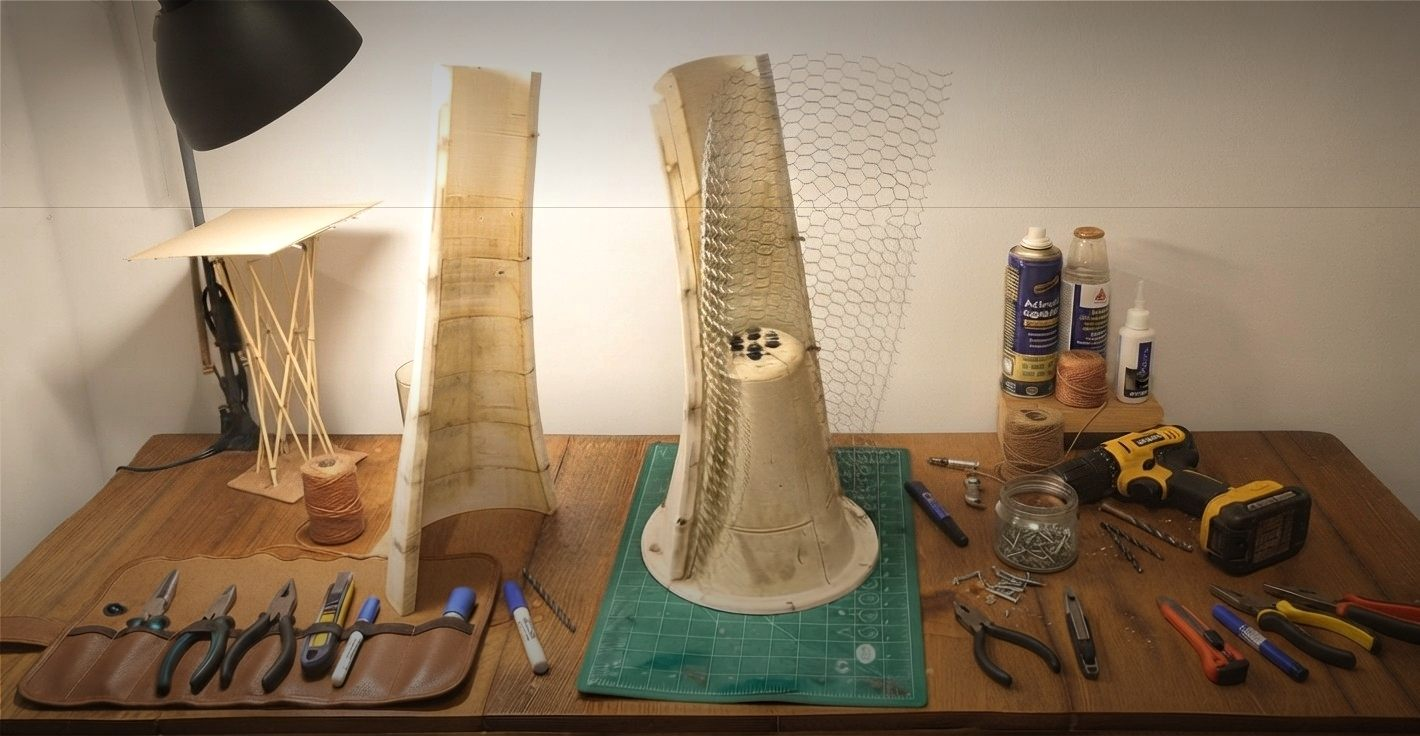
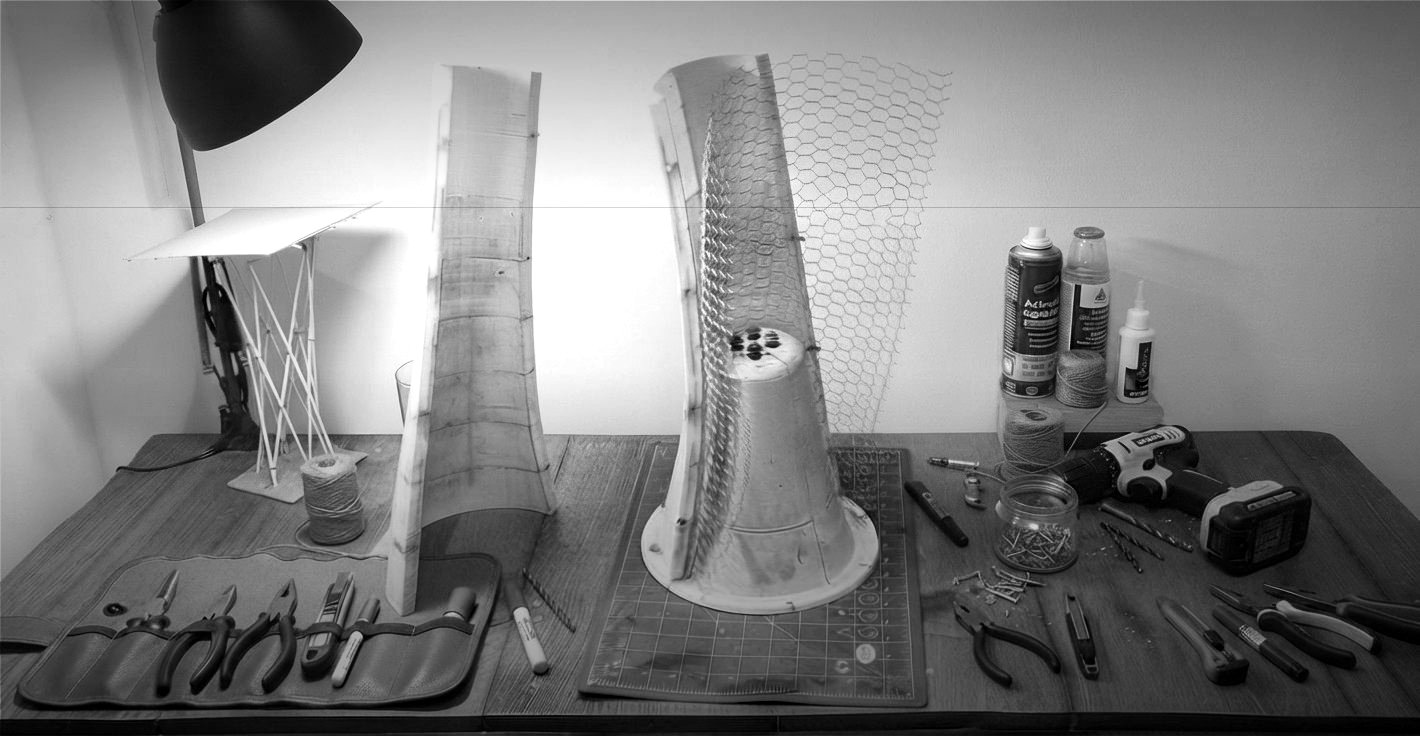
Fotos: al pasar el puntero el fondo se pixela y el objeto queda nitido (sin trama de puntos); imagen principal de Servicios en blanco y negro

diff --git a/dither.js b/dither.js
@@ -1,10 +1,12 @@
-// Dithering "concreto cromado": las fotos se ven como una trama de puntos (Bayer 4x4) con degradado
-// plata -> lila -> cian y pasan a la foto real al pasar el mouse. En pantallas táctiles, que no tienen
-// "hover", la foto se revela cuando queda en la franja central de la pantalla al hacer scroll.
-// Si la imagen no permite leer sus píxeles (sin CORS), se deja la foto tal cual.
+// Fondo en píxeles: las fotos se ven normales y, al pasar el puntero, el FONDO se vuelve un mosaico de
+// píxeles mientras el objeto (lo que hay en el centro, distinto del borde de la foto) queda nítido.
+// En pantallas táctiles, sin "hover", el efecto se activa cuando la foto queda en la franja central
+// de la pantalla al hacer scroll.
+// El objeto se detecta en el navegador comparando cada punto con los colores del borde de la foto
+// (no hay modelo de IA ni servidor). Si la imagen no permite leer sus píxeles (sin CORS), queda la foto.
 (() => {
   const conMouse = matchMedia('(hover: hover) and (pointer: fine)').matches;
-  // Táctil: se revela la tarjeta que cruza la franja central (38 % - 62 % de la altura de la pantalla)
+  // Táctil: se activa la tarjeta que cruza la franja central (38 % - 62 % de la altura de la pantalla)
   const tarjetas = new Set();
   let pendiente = false;
   function revisar() {
@@ -24,44 +26,197 @@
     addEventListener('resize', pedirRevision);
   }
 
-  const BAYER = [0, 8, 2, 10, 12, 4, 14, 6, 3, 11, 1, 9, 15, 7, 13, 5];
-  const ANCHO = 120;
-  const PLATA = [232, 232, 238];
-  const LILA = [185, 167, 255];
-  const CIAN = [126, 232, 255];
+  const ANCHO = 320;      // resolución del lienzo que se superpone a la foto
+  const ANCHO_MASCARA = 96; // resolución con la que se separa objeto y fondo
+  const COLUMNAS = 28;    // cuántos "píxeles" de ancho tiene el mosaico del fondo
   const procesadas = new WeakSet();
+  const chica = url => url.replace(/([?&])w=\d+/, '$1w=320');
 
-  const mezclar = (a, b, t) => [a[0] + (b[0] - a[0]) * t, a[1] + (b[1] - a[1]) * t, a[2] + (b[2] - a[2]) * t];
-  const cromo = t => (t < 0.5 ? mezclar(PLATA, LILA, t * 2) : mezclar(LILA, CIAN, (t - 0.5) * 2));
-  const chica = url => url.replace(/([?&])w=\d+/, '$1w=240');
+  // ---------- Separar objeto y fondo ----------
+  // Devuelve una máscara (1 = objeto, 0 = fondo) de ancho x alto.
+  function mascaraDelObjeto(px, an, al) {
+    const n = an * al;
+    // 1) Colores del borde de la foto = el fondo probable (3 grupos por k-means)
+    const grosor = Math.max(3, Math.round(an * 0.07));
+    const muestras = [];
+    for (let y = 0; y < al; y++) {
+      for (let x = 0; x < an; x++) {
+        if (x < grosor || y < grosor || x >= an - grosor || y >= al - grosor) {
+          const i = (y * an + x) * 4;
+          muestras.push([px[i], px[i + 1], px[i + 2]]);
+        }
+      }
+    }
+    muestras.sort((p, q) => (p[0] + p[1] + p[2]) - (q[0] + q[1] + q[2]));
+    const K = 3;
+    let centros = [0, 1, 2].map(k => muestras[Math.floor((k + 0.5) * muestras.length / K)].slice());
+    let asigna = new Array(muestras.length).fill(0);
+    const d2 = (p, c) => (p[0] - c[0]) ** 2 + (p[1] - c[1]) ** 2 + (p[2] - c[2]) ** 2;
+    for (let it = 0; it < 6; it++) {
+      muestras.forEach((p, j) => {
+        let mejor = 0, md = Infinity;
+        centros.forEach((c, k) => { const d = d2(p, c); if (d < md) { md = d; mejor = k; } });
+        asigna[j] = mejor;
+      });
+      centros = centros.map((c, k) => {
+        const s = [0, 0, 0]; let m = 0;
+        muestras.forEach((p, j) => { if (asigna[j] === k) { s[0] += p[0]; s[1] += p[1]; s[2] += p[2]; m++; } });
+        return m ? [s[0] / m, s[1] / m, s[2] / m] : c;
+      });
+    }
+    const sigma = centros.map((c, k) => {
+      let s = 0, m = 0;
+      muestras.forEach((p, j) => { if (asigna[j] === k) { s += Math.sqrt(d2(p, c)); m++; } });
+      return (m ? s / m : 10) + 14;
+    });
 
+    // 2) Qué tan distinto del fondo es cada punto, con preferencia por el centro
+    const puntaje = new Float32Array(n);
+    let maximo = 0;
+    for (let y = 0; y < al; y++) {
+      for (let x = 0; x < an; x++) {
+        const i = (y * an + x) * 4;
+        const p = [px[i], px[i + 1], px[i + 2]];
+        let d = Infinity;
+        centros.forEach((c, k) => { d = Math.min(d, Math.sqrt(d2(p, c)) / sigma[k]); });
+        const dx = (x / an - 0.5) * 2, dy = (y / al - 0.5) * 2;
+        const centro = 0.55 + 0.45 * Math.exp(-((dx / 0.7) ** 2 + (dy / 0.7) ** 2));
+        const v = d * centro;
+        puntaje[y * an + x] = v;
+        if (v > maximo) maximo = v;
+      }
+    }
+
+    // 3) Umbral de Otsu
+    const BINS = 64;
+    const hist = new Array(BINS).fill(0);
+    for (let i = 0; i < n; i++) hist[Math.min(BINS - 1, Math.floor(puntaje[i] / (maximo || 1) * BINS))]++;
+    let sumaTotal = 0;
+    hist.forEach((h, b) => { sumaTotal += b * h; });
+    let wB = 0, sB = 0, mejorVar = -1, umbral = 0;
+    for (let b = 0; b < BINS; b++) {
+      wB += hist[b];
+      if (!wB) continue;
+      const wF = n - wB;
+      if (!wF) break;
+      sB += b * hist[b];
+      const mB = sB / wB, mF = (sumaTotal - sB) / wF;
+      const v = wB * wF * (mB - mF) ** 2;
+      if (v > mejorVar) { mejorVar = v; umbral = b; }
+    }
+    const corte = (umbral + 1) / BINS * maximo;
+    let obj = new Uint8Array(n);
+    for (let i = 0; i < n; i++) obj[i] = puntaje[i] > corte ? 1 : 0;
+
+    // 4) Quedarse con las manchas grandes (y la que está en el centro), descartar motas
+    const etiqueta = new Int32Array(n).fill(-1);
+    const areas = [];
+    const toca = [];
+    for (let s = 0; s < n; s++) {
+      if (!obj[s] || etiqueta[s] >= 0) continue;
+      const id = areas.length;
+      let area = 0, centrada = false;
+      const pila = [s];
+      etiqueta[s] = id;
+      while (pila.length) {
+        const q = pila.pop();
+        area++;
+        const x = q % an, y = (q / an) | 0;
+        if (Math.abs(x / an - 0.5) < 0.18 && Math.abs(y / al - 0.5) < 0.18) centrada = true;
+        if (x > 0 && obj[q - 1] && etiqueta[q - 1] < 0) { etiqueta[q - 1] = id; pila.push(q - 1); }
+        if (x < an - 1 && obj[q + 1] && etiqueta[q + 1] < 0) { etiqueta[q + 1] = id; pila.push(q + 1); }
+        if (y > 0 && obj[q - an] && etiqueta[q - an] < 0) { etiqueta[q - an] = id; pila.push(q - an); }
+        if (y < al - 1 && obj[q + an] && etiqueta[q + an] < 0) { etiqueta[q + an] = id; pila.push(q + an); }
+      }
+      areas.push(area);
+      toca.push(centrada);
+    }
+    const mayor = Math.max(0, ...areas);
+    obj = obj.map((v, i) => (v && (areas[etiqueta[i]] >= mayor * 0.2 || (toca[etiqueta[i]] && areas[etiqueta[i]] >= n * 0.01)) ? 1 : 0));
+
+    // 5) Rellenar huecos: el fondo que no se conecta con el borde de la foto es parte del objeto
+    const fuera = new Uint8Array(n);
+    const pila = [];
+    const semilla = i => { if (!obj[i] && !fuera[i]) { fuera[i] = 1; pila.push(i); } };
+    for (let x = 0; x < an; x++) { semilla(x); semilla((al - 1) * an + x); }
+    for (let y = 0; y < al; y++) { semilla(y * an); semilla(y * an + an - 1); }
+    while (pila.length) {
+      const q = pila.pop();
+      const x = q % an, y = (q / an) | 0;
+      if (x > 0) semilla(q - 1);
+      if (x < an - 1) semilla(q + 1);
+      if (y > 0) semilla(q - an);
+      if (y < al - 1) semilla(q + an);
+    }
+    for (let i = 0; i < n; i++) obj[i] = fuera[i] ? 0 : 1;
+
+    // 6) Engordar un poco el objeto para que el borde del fondo no le muerda los bordes
+    for (let it = 0; it < 2; it++) {
+      const copia = obj.slice();
+      for (let y = 1; y < al - 1; y++) {
+        for (let x = 1; x < an - 1; x++) {
+          const q = y * an + x;
+          if (!copia[q] && (copia[q - 1] || copia[q + 1] || copia[q - an] || copia[q + an])) obj[q] = 1;
+        }
+      }
+    }
+
+    // 7) Si la detección no tiene sentido (casi nada o casi todo), se protege una elipse central
+    let cubierto = 0;
+    for (let i = 0; i < n; i++) cubierto += obj[i];
+    if (cubierto < n * 0.05 || cubierto > n * 0.9) {
+      for (let y = 0; y < al; y++) {
+        for (let x = 0; x < an; x++) {
+          const dx = (x / an - 0.5) / 0.36, dy = (y / al - 0.5) / 0.4;
+          obj[y * an + x] = dx * dx + dy * dy < 1 ? 1 : 0;
+        }
+      }
+    }
+    return obj;
+  }
+
+  // ---------- Lienzo: mosaico solo donde está el fondo ----------
   function pintar(img, origen) {
     const alto = Math.max(1, Math.round(ANCHO * origen.naturalHeight / origen.naturalWidth));
     const lienzo = document.createElement('canvas');
     lienzo.width = ANCHO;
     lienzo.height = alto;
-    lienzo.className = 'dither';
+    lienzo.className = 'fondo-pixel';
     lienzo.setAttribute('aria-hidden', 'true');
     const ctx = lienzo.getContext('2d', { willReadFrequently: true });
-    ctx.drawImage(origen, 0, 0, ANCHO, alto);
-    const datos = ctx.getImageData(0, 0, ANCHO, alto);
-    const px = datos.data;
-    for (let y = 0; y < alto; y++) {
-      for (let x = 0; x < ANCHO; x++) {
-        const i = (y * ANCHO + x) * 4;
-        let l = (0.299 * px[i] + 0.587 * px[i + 1] + 0.114 * px[i + 2]) / 255;
-        l = Math.min(1, Math.max(0, (l - 0.5) * 1.3 + 0.5));
-        const encendido = l > (BAYER[(y & 3) * 4 + (x & 3)] + 0.5) / 16;
-        const c = encendido ? cromo((x / ANCHO + y / alto) / 2) : [8, 8, 14];
-        px[i] = c[0];
-        px[i + 1] = c[1];
-        px[i + 2] = c[2];
-        px[i + 3] = 255;
-      }
+
+    // a) la máscara del objeto, calculada en baja resolución
+    const aM = ANCHO_MASCARA, hM = Math.max(1, Math.round(ANCHO_MASCARA * alto / ANCHO));
+    const pequeno = document.createElement('canvas');
+    pequeno.width = aM;
+    pequeno.height = hM;
+    const cp = pequeno.getContext('2d', { willReadFrequently: true });
+    cp.drawImage(origen, 0, 0, aM, hM);
+    const obj = mascaraDelObjeto(cp.getImageData(0, 0, aM, hM).data, aM, hM);
+    const imgMascara = cp.createImageData(aM, hM);
+    for (let i = 0; i < obj.length; i++) {
+      imgMascara.data[i * 4 + 3] = obj[i] ? 0 : 255;   // opaco = fondo (se pixela), transparente = objeto
     }
-    ctx.putImageData(datos, 0, 0);
+    cp.putImageData(imgMascara, 0, 0);
+
+    // b) el mosaico: la foto reducida y ampliada sin suavizar
+    const cols = COLUMNAS, filas = Math.max(1, Math.round(COLUMNAS * alto / ANCHO));
+    const mosaico = document.createElement('canvas');
+    mosaico.width = cols;
+    mosaico.height = filas;
+    mosaico.getContext('2d').drawImage(origen, 0, 0, cols, filas);
+    ctx.imageSmoothingEnabled = false;
+    ctx.drawImage(mosaico, 0, 0, ANCHO, alto);
+
+    // c) recortar el mosaico con la máscara (el objeto queda transparente y se ve la foto nítida)
+    ctx.imageSmoothingEnabled = true;
+    ctx.imageSmoothingQuality = 'high';
+    ctx.globalCompositeOperation = 'destination-in';
+    ctx.drawImage(pequeno, 0, 0, ANCHO, alto);
+    ctx.globalCompositeOperation = 'source-over';
+
     const marco = img.parentElement;
-    marco.classList.add('dither-wrap');
+    marco.classList.add('fondo-pixel-wrap');
     marco.appendChild(lienzo);
     const tarjeta = img.closest('.gallery-item, figure, .dither-scope');
     if (!conMouse && tarjeta) { tarjetas.add(tarjeta); pedirRevision(); }
@@ -70,7 +225,7 @@
   function procesar(img) {
     if (procesadas.has(img) || !img.src) return;
     procesadas.add(img);
-    // Las láminas vectoriales (PNG) ya tienen el estilo y pierden legibilidad con la trama
+    // Las láminas vectoriales (PNG) no llevan fondo fotográfico: se dejan como están
     if (/\.png(\?|$)/i.test(img.src)) return;
     const origen = new Image();
     origen.crossOrigin = 'anonymous';

diff --git a/y2k.css b/y2k.css
@@ -222,9 +222,9 @@ body.y2k .gallery-item:hover {
   box-shadow: 0 0 0 1px rgba(185, 167, 255, 0.6), 0 12px 32px rgba(126, 232, 255, 0.08);
 }
 
-/* ---------- Imágenes en dithering: trama cromada que pasa a la foto real al hover ---------- */
-.dither-wrap { position: relative; }
-.dither {
+/* ---------- Fotos: al pasar el puntero, el fondo se vuelve un mosaico de píxeles y el objeto queda nítido ---------- */
+.fondo-pixel-wrap { position: relative; }
+.fondo-pixel {
   position: absolute;
   inset: 0;
   width: 100%;
@@ -234,13 +234,15 @@ body.y2k .gallery-item:hover {
   border-radius: inherit;
   pointer-events: none;
   z-index: 0;
-  transition: opacity 0.35s ease;
+  opacity: 0;
+  transition: opacity 0.3s steps(4, end), transform 0.25s ease;
 }
-.dither-wrap figcaption { z-index: 1; }
-:is(.gallery-item, figure, .dither-scope):is(:hover, :focus-within, .revelado) .dither { opacity: 0; }
+.fondo-pixel-wrap figcaption { z-index: 1; }
+:is(.gallery-item, figure, .dither-scope):is(:hover, :focus-within, .revelado) .fondo-pixel { opacity: 1; }
+.gallery-item:hover .fondo-pixel { transform: scale(1.05); }
 .dither-scope { position: relative; border-radius: 12px; overflow: hidden; }
 .dither-scope img { border-radius: inherit; }
-@media (prefers-reduced-motion: reduce) { .dither { transition: none; } }
+@media (prefers-reduced-motion: reduce) { .fondo-pixel { transition: none; } }
 
 /* ---------- Cursor personalizado ---------- */
 .y2k-cursor {

diff --git a/index.html b/index.html
@@ -11,7 +11,7 @@
   <link rel="preconnect" href="https://fonts.googleapis.com">
   <link rel="preconnect" href="https://fonts.gstatic.com" crossorigin>
   <link href="https://fonts.googleapis.com/css2?family=Montserrat:wght@400;500;600;700&family=Unbounded:wght@500;700&family=Space+Mono:wght@400;700&display=swap" rel="stylesheet">
-  <link rel="stylesheet" href="y2k.css?v=3">
+  <link rel="stylesheet" href="y2k.css?v=4">
   <!-- Metricool -->
   <script>function loadScript(a){var b=document.getElementsByTagName("head")[0],c=document.createElement("script");c.type="text/javascript",c.src="https://tracker.metricool.com/resources/be.js",c.onreadystatechange=a,c.onload=a,b.appendChild(c)}loadScript(function(){beTracker.t({hash:"e399044339d195af0c08d307ff70b030"})});</script>
 </head>
@@ -135,7 +135,7 @@
 
 <script type="module" src="webgl-hero.js" fetchpriority="low"></script>
 <script src="y2k.js?v=3" defer></script>
-<script src="dither.js?v=3" defer></script>
+<script src="dither.js?v=4" defer></script>
 <script src="mascota.js?v=8"></script>
 </body>
 </html>

diff --git a/servicios.html b/servicios.html
@@ -8,7 +8,7 @@
   <script async src="https://www.googletagmanager.com/gtag/js?id=G-LZW7VQF6PR"></script>
   <script>window.dataLayer=window.dataLayer||[];function gtag(){dataLayer.push(arguments);}gtag('js',new Date());gtag('config','G-LZW7VQF6PR');</script>
   <link rel="stylesheet" href="styles.css">
-  <link rel="stylesheet" href="y2k.css?v=3">
+  <link rel="stylesheet" href="y2k.css?v=4">
   <link rel="icon" href="iconos/favicon.ico" type="image/ico">
   <link rel="preconnect" href="https://fonts.googleapis.com">
   <link rel="preconnect" href="https://fonts.gstatic.com" crossorigin>
@@ -1293,7 +1293,7 @@ if (pre && SERVICIOS.some(s => s.id === pre)) seleccionar(pre);
 </script>
 
 <script src="y2k.js?v=3" defer></script>
-<script src="dither.js?v=3" defer></script>
+<script src="dither.js?v=4" defer></script>
 <script src="mascota.js?v=8"></script>
 </body>
 </html>

diff --git a/inspiracion.html b/inspiracion.html
@@ -11,7 +11,7 @@
   <link rel="preconnect" href="https://fonts.googleapis.com">
   <link rel="preconnect" href="https://fonts.gstatic.com" crossorigin>
   <link href="https://fonts.googleapis.com/css2?family=Montserrat:wght@400;500;600;700&family=Unbounded:wght@500;700&family=Space+Mono:wght@400;700&display=swap" rel="stylesheet">
-<link rel="stylesheet" href="y2k.css?v=3">
+<link rel="stylesheet" href="y2k.css?v=4">
   <style>
     * {
       box-sizing: border-box;
@@ -171,7 +171,7 @@
 
 
 <script src="y2k.js?v=3" defer></script>
-<script src="dither.js?v=3" defer></script>
+<script src="dither.js?v=4" defer></script>
 <script src="mascota.js?v=8"></script>
 </body>
 </html>

diff --git a/laboratorio.html b/laboratorio.html
@@ -11,7 +11,7 @@
   <link rel="preconnect" href="https://fonts.googleapis.com">
   <link rel="preconnect" href="https://fonts.gstatic.com" crossorigin>
   <link href="https://fonts.googleapis.com/css2?family=Montserrat:wght@400;500;600;700&family=Unbounded:wght@500;700&family=Space+Mono:wght@400;700&display=swap" rel="stylesheet">
-<link rel="stylesheet" href="y2k.css?v=3">
+<link rel="stylesheet" href="y2k.css?v=4">
   <style>
     * {
       box-sizing: border-box;
@@ -171,7 +171,7 @@
 
 
 <script src="y2k.js?v=3" defer></script>
-<script src="dither.js?v=3" defer></script>
+<script src="dither.js?v=4" defer></script>
 <script src="mascota.js?v=8"></script>
 </body>
 </html>

diff --git a/nosotros.html b/nosotros.html
@@ -11,7 +11,7 @@
   <link rel="preconnect" href="https://fonts.googleapis.com">
   <link rel="preconnect" href="https://fonts.gstatic.com" crossorigin>
   <link href="https://fonts.googleapis.com/css2?family=Montserrat:wght@400;500;600;700&family=Unbounded:wght@500;700&family=Space+Mono:wght@400;700&display=swap" rel="stylesheet">
-<link rel="stylesheet" href="y2k.css?v=3">
+<link rel="stylesheet" href="y2k.css?v=4">
   <style>
     * {
       box-sizing: border-box;
@@ -221,7 +221,7 @@
 
 
 <script src="y2k.js?v=3" defer></script>
-<script src="dither.js?v=3" defer></script>
+<script src="dither.js?v=4" defer></script>
 <script src="mascota.js?v=8"></script>
 </body>
 </html>

diff --git a/404.html b/404.html
@@ -10,7 +10,7 @@
 <link rel="preconnect" href="https://fonts.googleapis.com">
 <link rel="preconnect" href="https://fonts.gstatic.com" crossorigin>
 <link href="https://fonts.googleapis.com/css2?family=Montserrat:wght@400;500;600;700&family=Unbounded:wght@500;700&family=Space+Mono:wght@400;700&display=swap" rel="stylesheet">
-<link rel="stylesheet" href="y2k.css?v=3">
+<link rel="stylesheet" href="y2k.css?v=4">
 <style>
 *{box-sizing:border-box;margin:0;padding:0;}
 body{background:#000;color:#fff;font-family:'Montserrat',sans-serif;min-height:100vh;display:flex;flex-direction:column;}

diff --git a/publicaciones/post.html b/publicaciones/post.html
@@ -11,7 +11,7 @@
 <link rel="preconnect" href="https://fonts.googleapis.com">
 <link rel="preconnect" href="https://fonts.gstatic.com" crossorigin>
 <link href="https://fonts.googleapis.com/css2?family=Montserrat:wght@400;500;600;700&family=Unbounded:wght@500;700&family=Space+Mono:wght@400;700&display=swap" rel="stylesheet">
-<link rel="stylesheet" href="../y2k.css?v=3">
+<link rel="stylesheet" href="../y2k.css?v=4">
 
 <style>
 *{box-sizing:border-box;margin:0;padding:0;}
